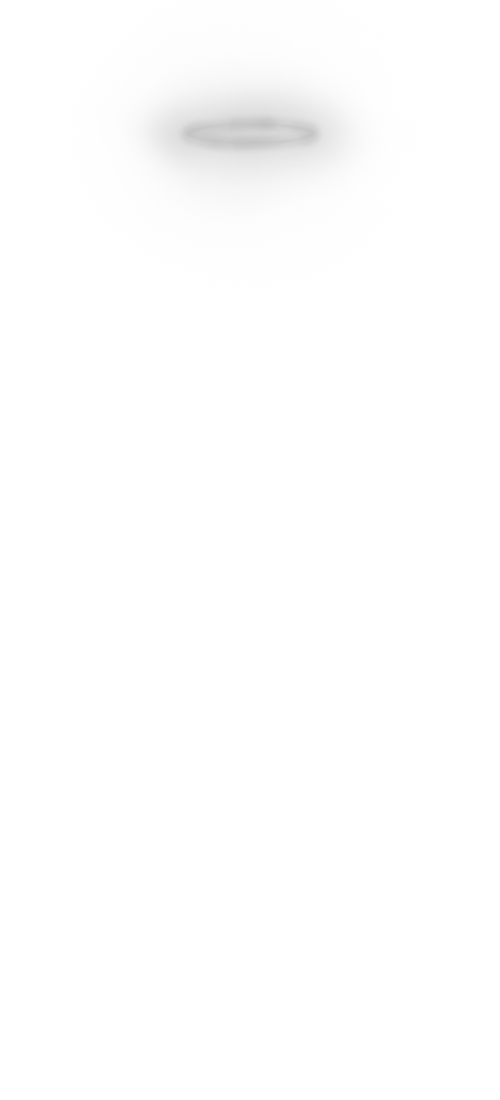
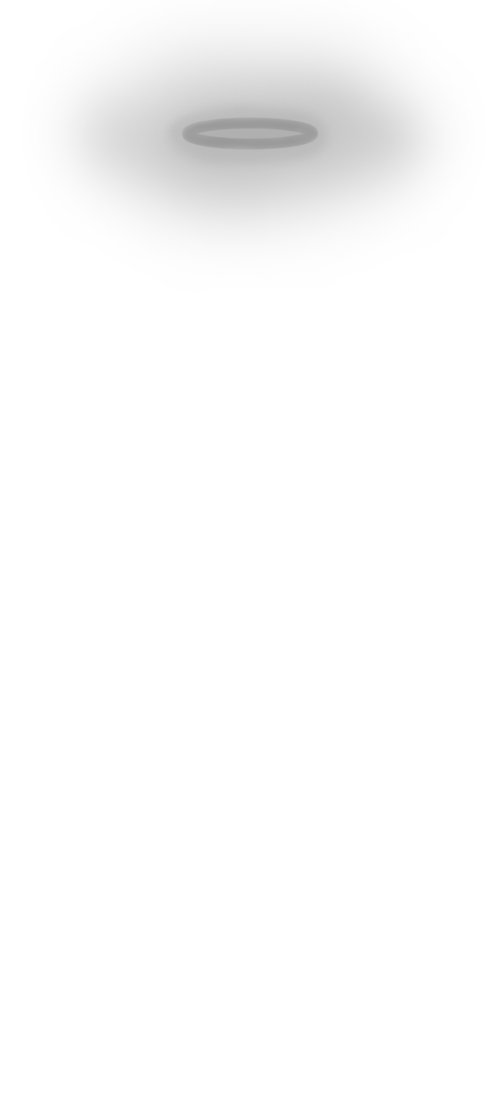
Halo asset improvements

Changed region(s): [[0.18, 0.0618, 0.84, 0.1855]]

diff --git a/BondageClub/Assets/Female3DCG/Female3DCG.js b/BondageClub/Assets/Female3DCG/Female3DCG.js
@@ -740,7 +740,7 @@ var AssetFemale3DCG = [
 			{ Name: "WeddingVeil1", Priority: 4, Value: -1, BuyGroup: "WeddingVeil1" },
 			{ Name: "HairFeathers1", Value: -1, BuyGroup: "HairFeathers1" },
 			{
-				Name: "Halo", BuyGroup: "Halo", Top: -100, Left: 0, DefaultColor: ["#fe6", "#fe6", "#fff"], Extended: true, MinOpacity: 0, Opacity: 0,
+				Name: "Halo", BuyGroup: "Halo", Top: -100, Left: 0, DefaultColor: ["#fff4a0", "#ffee66", "#fffdee"], Extended: true, MinOpacity: 0, Opacity: 0,
 				Layer: [
 					{ Name: "Glow", Opacity: 0 },
 					{ Name: "Base", MinOpacity: 1 },
